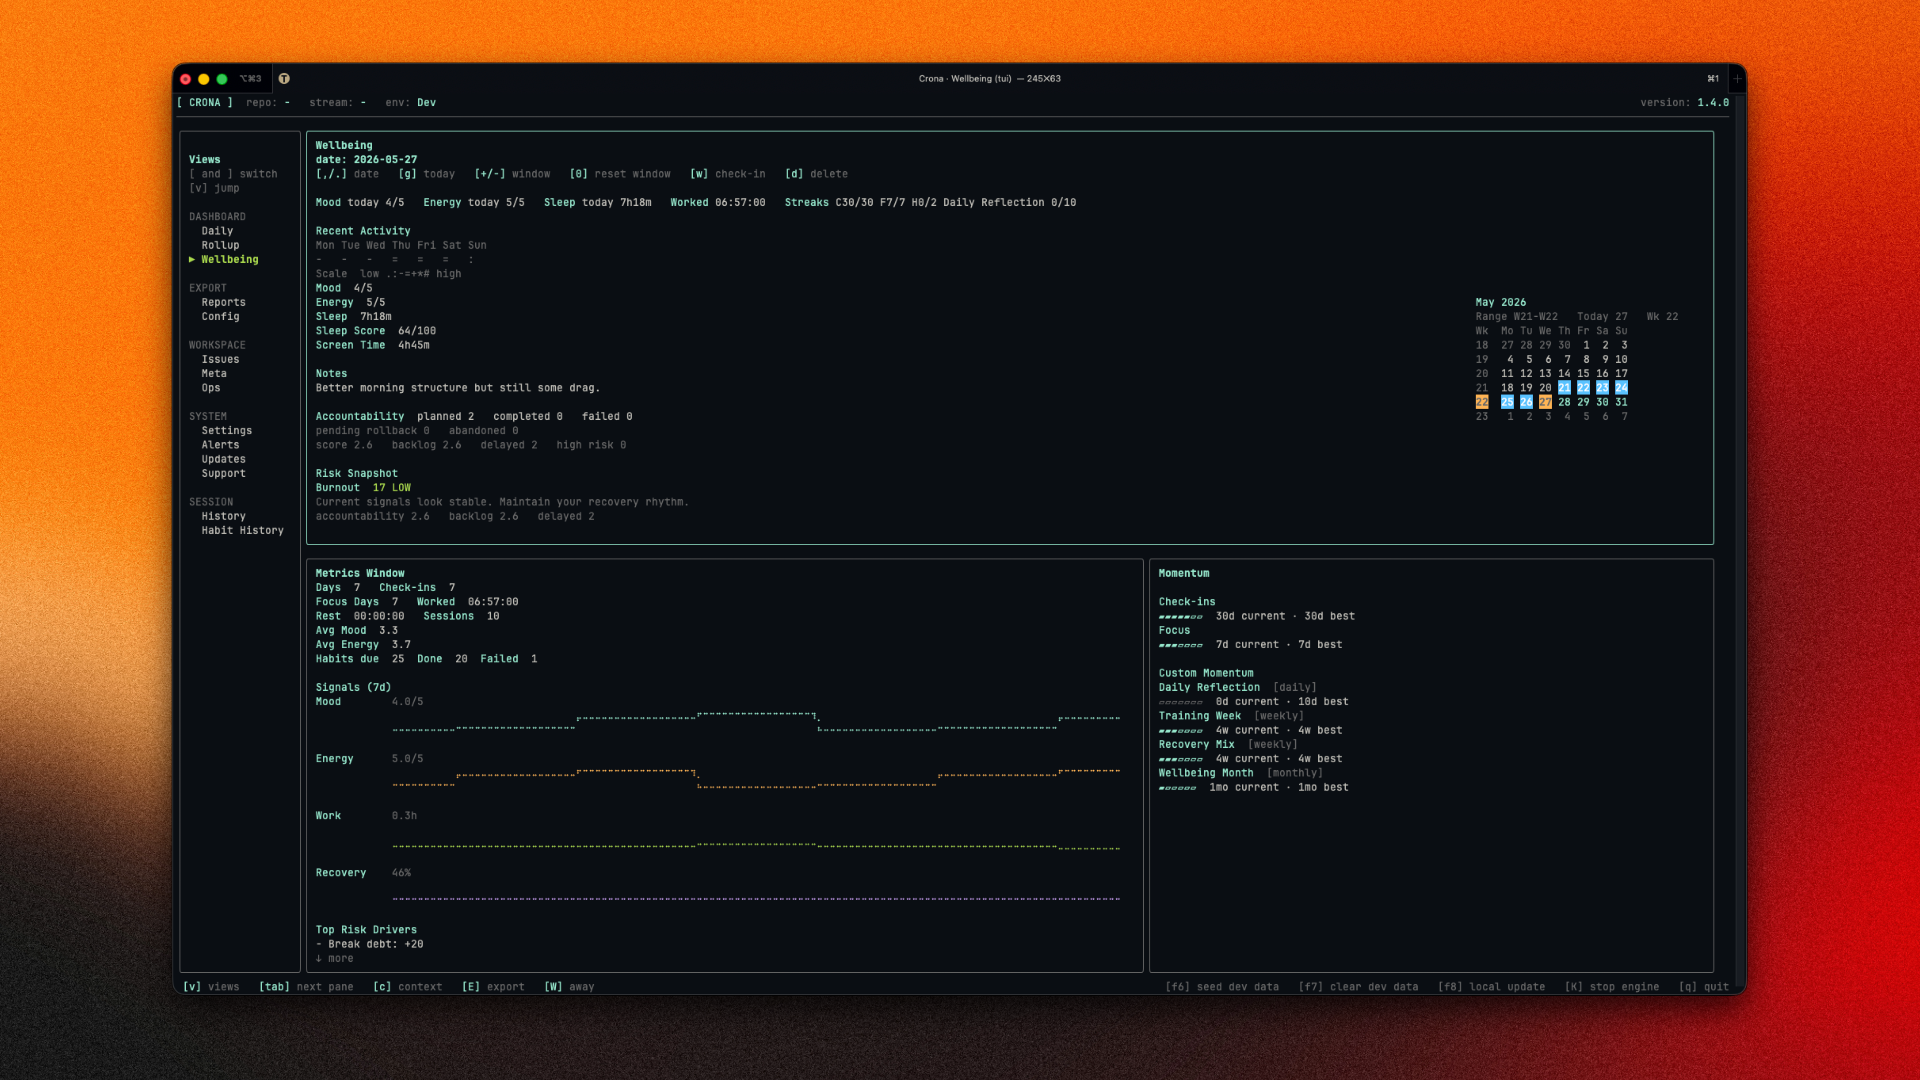
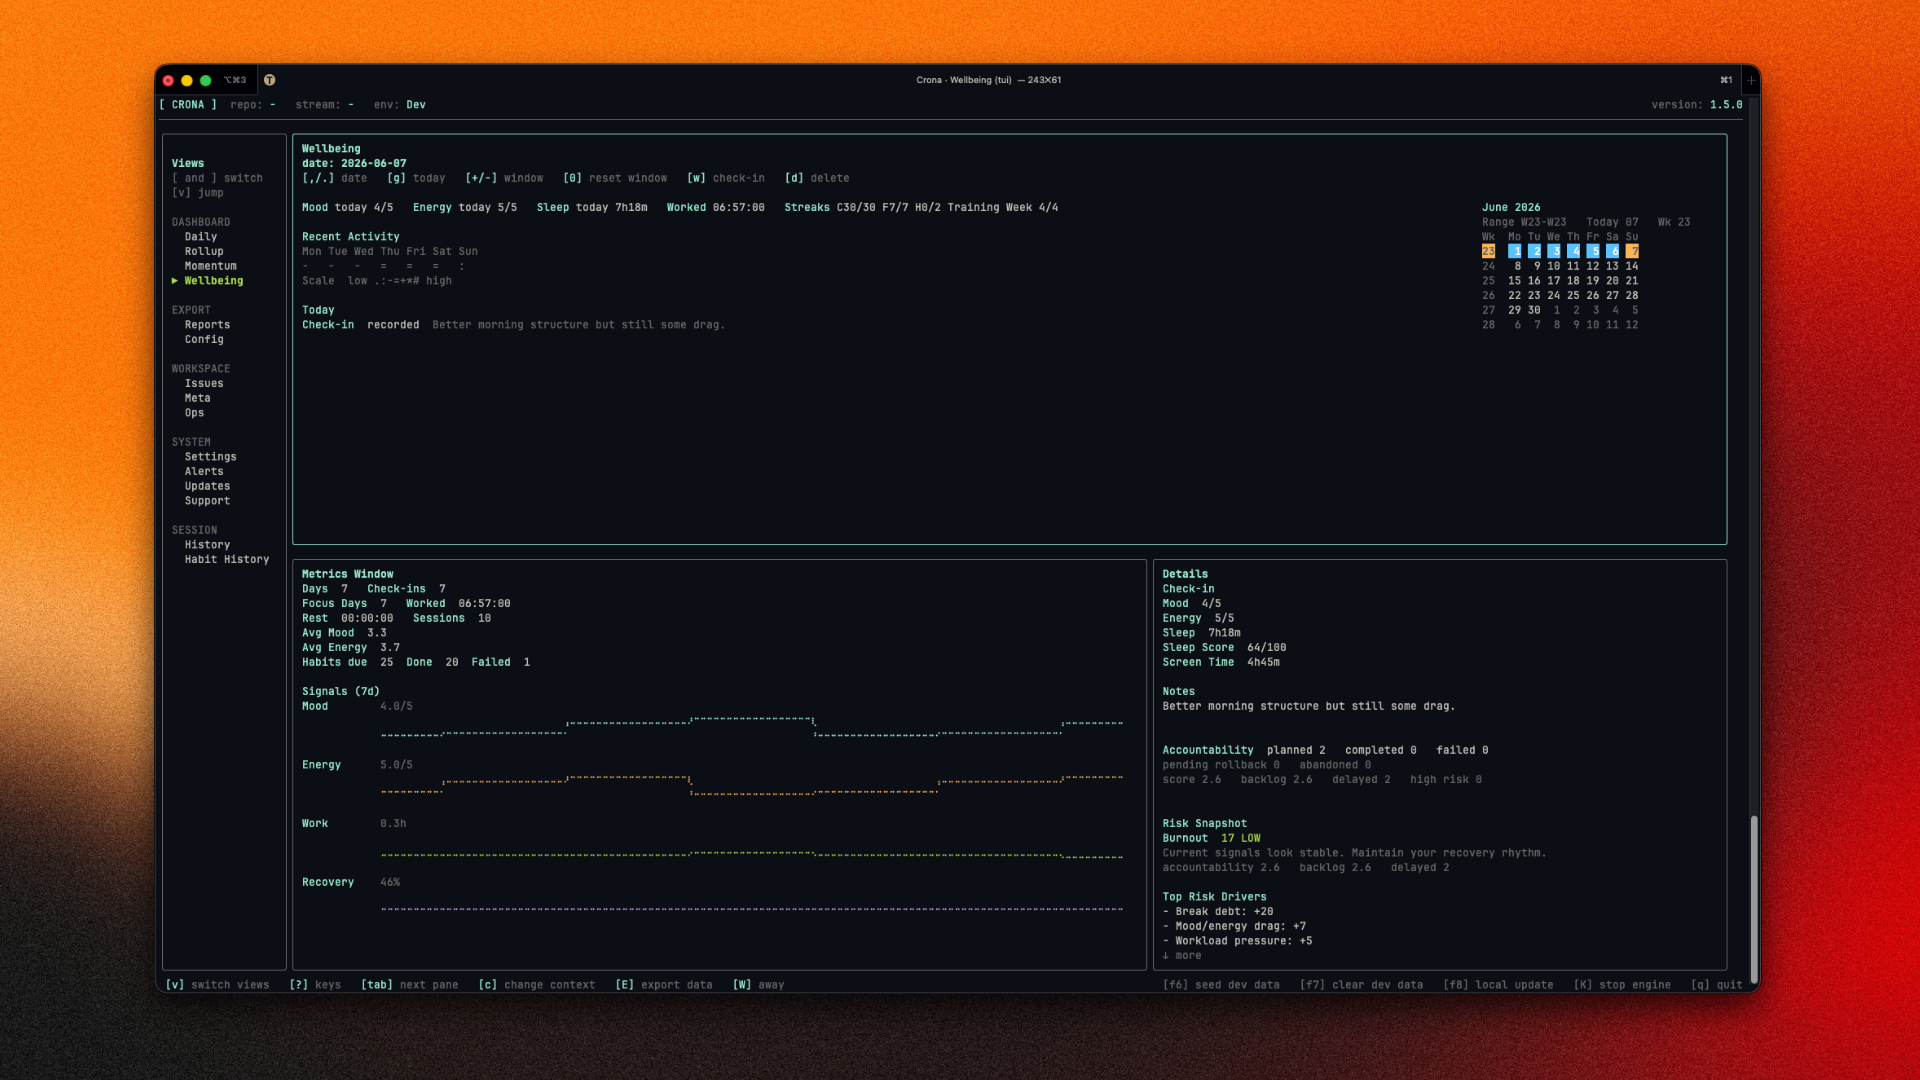
feat(site): add Rollup & Momentum screenshots and walkthrough, update docs; improve header/footer active links and OG image alt; add changelog v1.5.0

diff --git a/src/components/SiteHeader/SiteHeader.scss b/src/components/SiteHeader/SiteHeader.scss
@@ -64,6 +64,14 @@
   content: "./";
 }
 
+.site-header__nav a.is-active {
+  color: var(--color-ink);
+}
+
+.site-header__nav a[aria-current="page"]::before {
+  color: var(--color-accent);
+}
+
 .site-header__nav a.is-external {
   align-items: center;
   display: inline-flex;

diff --git a/src/pages/docs/_index/index.scss b/src/pages/docs/_index/index.scss
@@ -23,6 +23,12 @@
   gap: var(--space-7);
 }
 
+.docs-home-start {
+  display: grid;
+  gap: var(--space-4);
+  margin-bottom: var(--space-7);
+}
+
 .docs-home-group {
   --flow-space: var(--space-4);
 }

diff --git a/src/components/SiteFooter/SiteFooter.scss b/src/components/SiteFooter/SiteFooter.scss
@@ -9,6 +9,11 @@
   padding: 24px var(--gutter);
 }
 
+.site-footer__tagline {
+  color: var(--color-muted);
+  margin: 0;
+}
+
 .site-footer__links {
   align-items: center;
   display: flex;

diff --git a/src/content/docs/screenshots-and-walkthrough.md b/src/content/docs/screenshots-and-walkthrough.md
@@ -61,11 +61,47 @@ Read more:
 - [Issues and Planning](/docs/issues-and-planning/)
 - [TUI Keymap Reference](/docs/tui-keymap-reference/)
 
+## Rollup Dashboard: Read the Day
+
+![Rollup dashboard showing the focus graph beside the calendar and the Breakdown pane](/screenshots/rollup-dashboard.png)
+
+Rollup is the surface that shows the day’s work rhythm at a glance. It keeps the focus graph beside the calendar so the current day stays readable, while the Breakdown pane gives you the deeper context when you need it.
+
+It can surface:
+
+- focus and worktime visualization
+- the calendar view for the selected day
+- the scrollable Breakdown pane
+- totals and score summaries tied to the current focus state
+
+Read more:
+
+- [Features Overview](/docs/features-overview/)
+- [TUI Keymap Reference](/docs/tui-keymap-reference/)
+
+## Momentum Dashboard: Read the Long View
+
+![Momentum dashboard showing custom cards, week labels, and paused history states](/screenshots/momentum-dashboard.png)
+
+Momentum is the surface for the custom history view. It keeps the longer-running pattern visible without pretending the wellbeing story is a built-in streak editor.
+
+It can surface:
+
+- custom momentum cards
+- descriptions on each card
+- week-number labels
+- disabled-state cards that read as paused history
+
+Read more:
+
+- [Check-Ins and Wellbeing](/docs/check-ins-and-wellbeing/)
+- [Features Overview](/docs/features-overview/)
+
 ## Wellbeing Dashboard: Review the Pattern
 
-![Wellbeing dashboard showing the configurable Metrics Window, Momentum history, and activity heatmap](/screenshots/wellbeing-dashboard.png)
+![Wellbeing dashboard showing the configurable Metrics Window, details pane, and custom Momentum](/screenshots/wellbeing-dashboard.png)
 
-The Wellbeing dashboard shows the part of Crona that goes beyond issue state and timer history. This is the surface that helps you step back and ask how the recent work rhythm has actually been going.
+The Wellbeing dashboard shows the part of Crona that goes beyond issue state and timer history. This is the surface that helps you step back and ask how the recent work rhythm has actually been going. In the current layout, it is split into a summary pane, a Metrics Window, and a details pane.
 
 It can surface:
 
@@ -73,7 +109,7 @@ It can surface:
 - accountability summaries
 - burnout and recovery signals
 - the configurable Metrics Window
-- Momentum history
+- custom Momentum history
 - trend windows and activity heatmaps
 
 This is where Crona stops being only a planning tool and becomes a reflection tool as well.
@@ -90,7 +126,7 @@ Taken together, these views show the basic Crona loop:
 1. use Daily to understand the shape of the day
 2. use Issues to shape and choose the work
 3. use Focus Sessions to execute that work
-4. use Wellbeing to review the pattern behind it through the Metrics Window and Momentum
+4. use Wellbeing to review the pattern behind it through the Metrics Window and custom Momentum
 
 That loop is what makes Crona feel more like a local work system than a loose collection of pages.
 

diff --git a/src/content/docs/features-overview.md b/src/content/docs/features-overview.md
@@ -1,6 +1,6 @@
 ---
 title: Features Overview
-description: A map of the main Crona workflows across planning, issue-scoped focus, Momentum, exports, alerts, updates, and settings.
+description: A map of the main Crona workflows across planning, issue-scoped focus, Rollup, Wellbeing, Momentum, checkout, exports, alerts, updates, and settings.
 order: 4
 ---
 
@@ -16,6 +16,8 @@ Crona gives you structured work objects and issue-scoped timer behavior rather t
 - daily planning views that surface the current scope, due work, pinned issues, and overdue work
 
 Issue state changes are explicit, and the TUI exposes dedicated actions for focus, logging, status changes, due dates, edit, delete, and per-issue timing.
+
+Checkout context selection also behaves like a real selector, so repo and stream prompts stay usable even when the text inputs are empty.
 
 ## Habits And History
 
@@ -44,6 +46,19 @@ Key capabilities:
 - recover from existing stashes instead of losing prior context
 - review session history and amend notes later
 
+## Rollup
+
+Rollup combines focus and worktime visualization with the calendar so the current day stays readable at a glance.
+
+Key capabilities:
+
+- focus graph beside the calendar
+- scrollable Breakdown pane
+- pane budgeting that keeps the layout usable on smaller screens
+- inline totals and score summaries that keep the current focus state visible
+
+If you want to see it in context, read the [Screenshots and Walkthrough](/docs/screenshots-and-walkthrough/) page for the current Rollup screenshot.
+
 ## Check-Ins And Wellbeing
 
 Crona is not only an issue tracker. It also includes a daily self-check workflow:
@@ -52,10 +67,33 @@ Crona is not only an issue tracker. It also includes a daily self-check workflow
 - sleep and screen-time inputs
 - burnout indicators and trend views
 - a configurable Metrics Window for recent history
-- Momentum for the longer-running wellbeing history
+- Momentum for the longer-running custom-only wellbeing history
 - accountability and plan-failure rollups
 
 This data is kept local and shown in the Wellbeing dashboard, the compact Daily momentum block, and related range summaries.
+
+## Momentum
+
+Momentum is the long-view wellbeing surface for custom momentum history.
+
+It now stays focused on:
+
+- custom momentum cards
+- descriptions on each card
+- weekly labels with the week number prefix
+- disabled-state rendering that reads as paused history
+
+The [Screenshots and Walkthrough](/docs/screenshots-and-walkthrough/) page shows the current Momentum dashboard view.
+
+## Checkout And Dialogs
+
+Checkout dialogs act like selectors rather than dead inputs.
+
+That means:
+
+- `Select a repo` and `Select a stream` prompts still appear when the fields are blank
+- arrow cycling works from the empty state
+- help opens in a proper modal instead of distorting the active screen
 
 ## Dashboards And Views
 

diff --git a/src/content/docs/check-ins-and-wellbeing.md b/src/content/docs/check-ins-and-wellbeing.md
@@ -1,6 +1,6 @@
 ---
 title: Check-Ins and Wellbeing
-description: Learn how Crona connects daily check-ins, Momentum, burnout signals, and accountability with the work you plan and complete.
+description: Learn how Crona connects daily check-ins, custom Momentum history, burnout signals, and accountability with the work you plan and complete.
 order: 7
 ---
 
@@ -30,7 +30,7 @@ The Wellbeing view is where those signals become useful.
 It splits the display into two ideas:
 
 - a configurable Metrics Window for the recent period
-- Momentum for the longer-running history view
+- Momentum for the longer-running custom-only history view
 
 It can combine:
 
@@ -65,7 +65,7 @@ The value of the Wellbeing page is not just one day’s data. It is the ability 
 - whether work is accumulating without enough recovery
 - whether daily plans are being completed, rolled forward, or abandoned
 
-This is where Crona starts to feel like more than a task tracker. It can show the relationship between planning quality, focus load, and how the recent period has actually felt. Momentum is the long-view surface for that history, while the Metrics Window keeps the short-range window readable.
+This is where Crona starts to feel like more than a task tracker. It can show the relationship between planning quality, focus load, and how the recent period has actually felt. Momentum is the long-view surface for that history, while the Metrics Window keeps the short-range window readable. Disabled Momentum cards read as paused history instead of a failure state.
 
 ## How It Connects Back to Daily Work
 

diff --git a/src/content/changelog/v1-5-0.md b/src/content/changelog/v1-5-0.md
@@ -1,0 +1,12 @@
+---
+title: Stable release
+version: v1.5.0
+date: 2026-06-07
+summary: Crona v1.5.0 sharpens Rollup, Wellbeing, Momentum, checkout selection, and modal help.
+---
+
+Crona v1.5.0 sharpens the terminal experience with a clearer Rollup focus chart, a snapshot-first Wellbeing layout, and a streamlined Momentum surface for custom momentum management.
+
+Checkout selection now behaves more like a real selector, modal dialogs no longer distort the active view, and the surrounding TUI plumbing has been simplified for maintainability.
+
+The website release story also uses updated Rollup and Momentum screenshots to show the current surfaces more accurately.

diff --git a/src/content/docs/concepts.md b/src/content/docs/concepts.md
@@ -87,7 +87,7 @@ Daily check-ins capture self-report data for a specific date. The current fields
 - optional screen time
 - optional notes
 
-These feed the Wellbeing view, the configurable Metrics Window, the compact Daily momentum block, and Momentum history summaries.
+These feed the Wellbeing view, the configurable Metrics Window, the compact Daily momentum block, and custom Momentum history summaries.
 
 ## Habits
 
